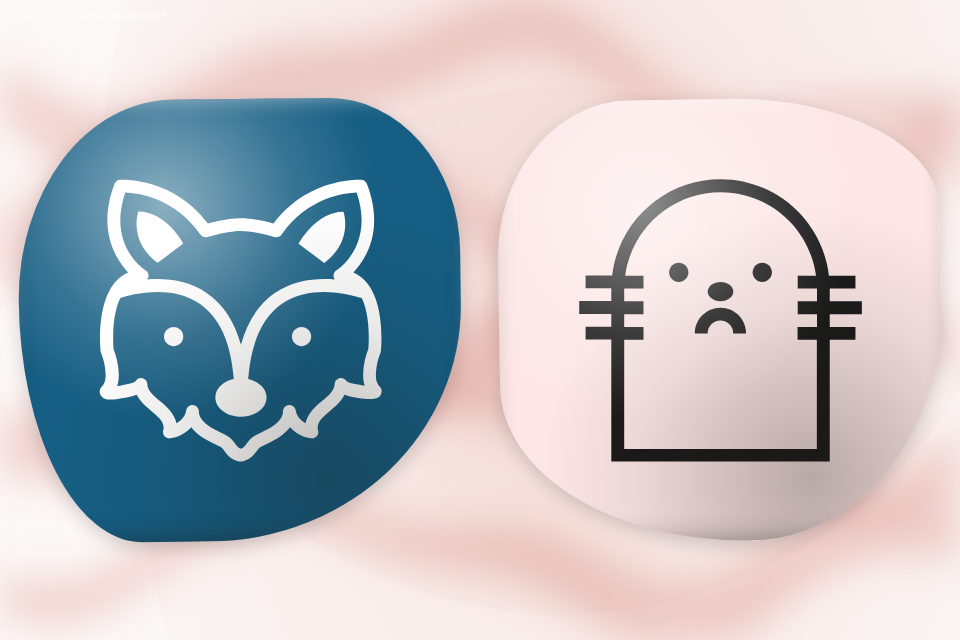
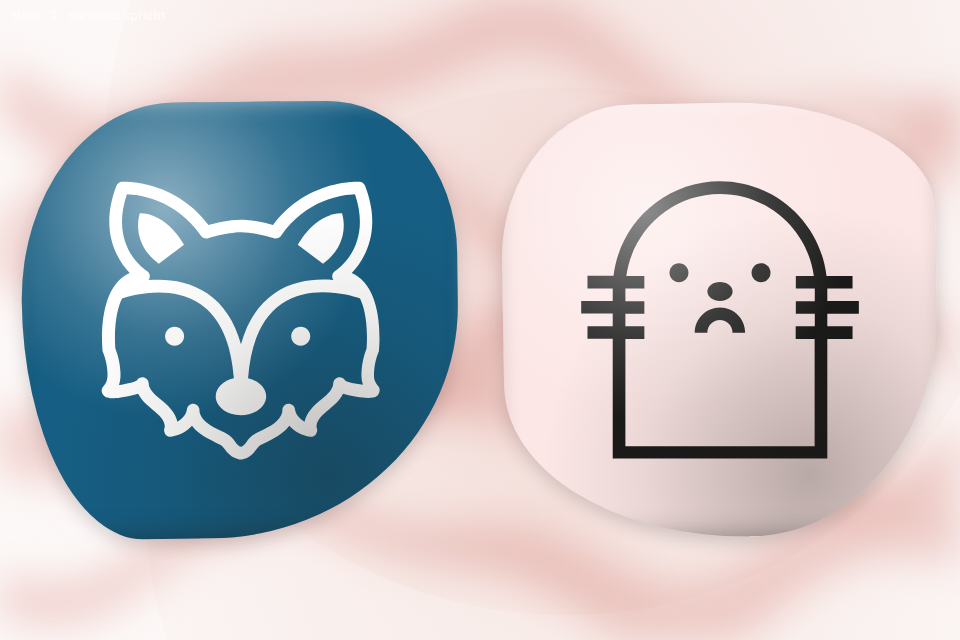
docs(oriso): re-shoot the Kreis plates after the lean correction
The forms are sized against their rotated extent now, so they are slightly
smaller than in the plates committed earlier today. Evidence that does not
match the code it is evidence for is worse than none, so the two "after"
plates come from the current branch and the README says why they changed.

Claude-Session: https://claude.ai/code/session_017MB6CahZs4tUkVU8pj7H4e

diff --git a/docs/evidence/kreis-zu-zweit/README.md b/docs/evidence/kreis-zu-zweit/README.md
@@ -9,6 +9,12 @@ geschossen (Chromium, 960x640, 1x). Was sie zeigen:
 | `01-after-kreis-zu-zweit.png`         | Nachher: `pairShapes` teilt dasselbe Rechteck wie die Felder und setzt in jede Hälfte die eigene Form der Person. Nichts überdeckt sich.                   |
 | `02-after-kreis-zu-zweit-spricht.png` | Nachher, mit Sprecherin: 1,6× größer — das Sprech-Gewicht des Hains, nicht die 2,6 der Felder, mit denen die Zuhörerin auf ein Viertel geschrumpft wäre.   |
 
+Die beiden Nachher-Platten sind nach der Neigungs-Korrektur neu geschossen:
+`OrisoFace` dreht jede Form um bis zu ±11°, und ein Quadrat bei 11° ist 17 %
+breiter als seine Box. Die Formen sind deshalb etwas kleiner als in der ersten
+Fassung — gemessen über alle Paare aus 120 Namen, vorher bis zu 23px
+Überlappung trotz nicht überlappender Boxen.
+
 Der Anlass: eine Bildschirmfreigabe nimmt einem Zweiergespräch das
 Einzelgespräch-Layout weg, und der Kreis ist dann das, was die Leiste
 anbietet. Der Fall ist also nicht zu umgehen.
